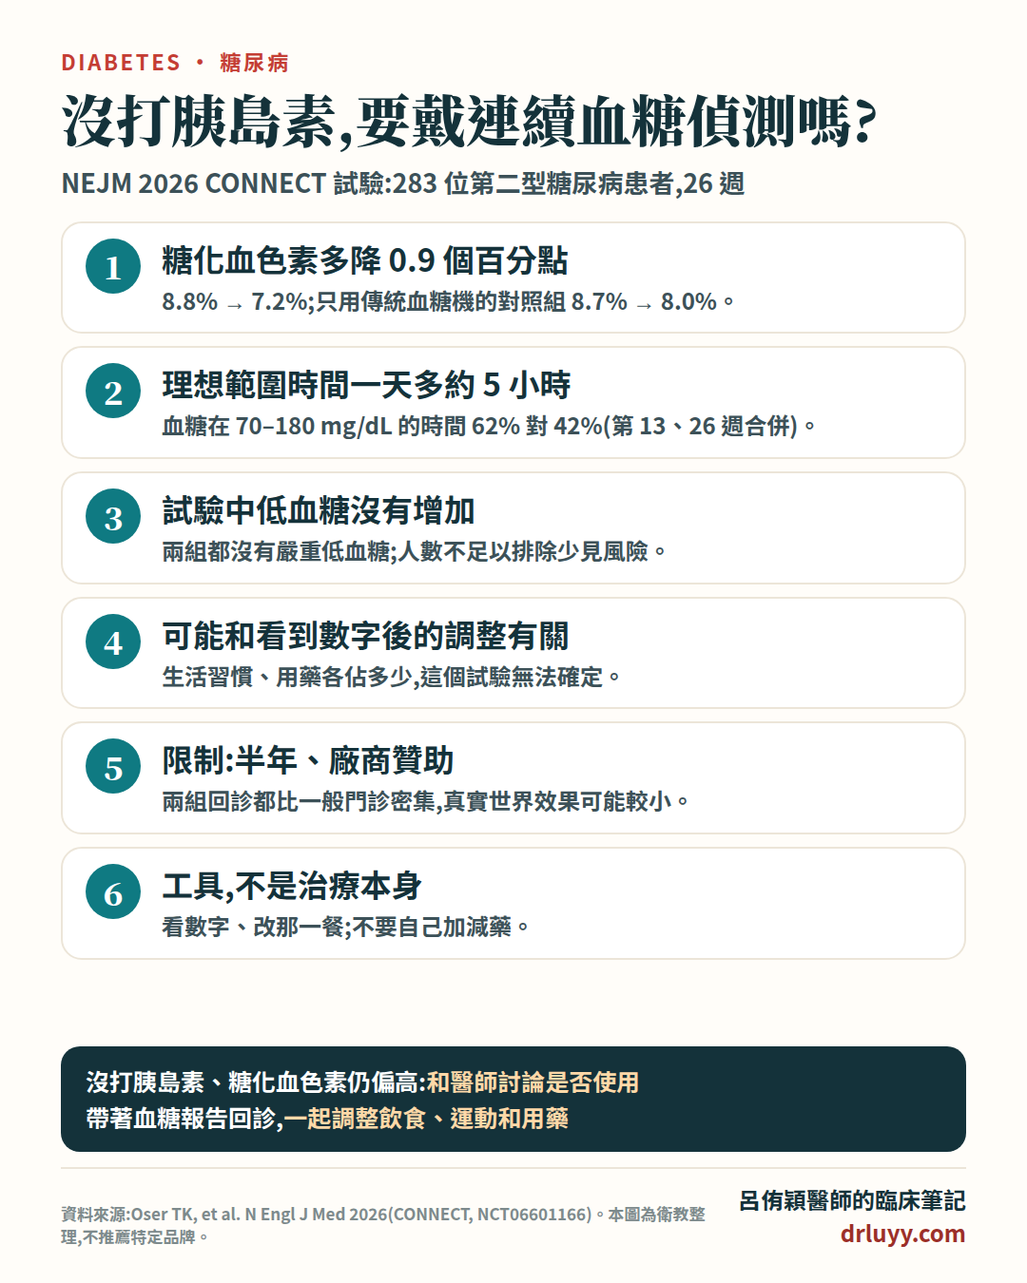
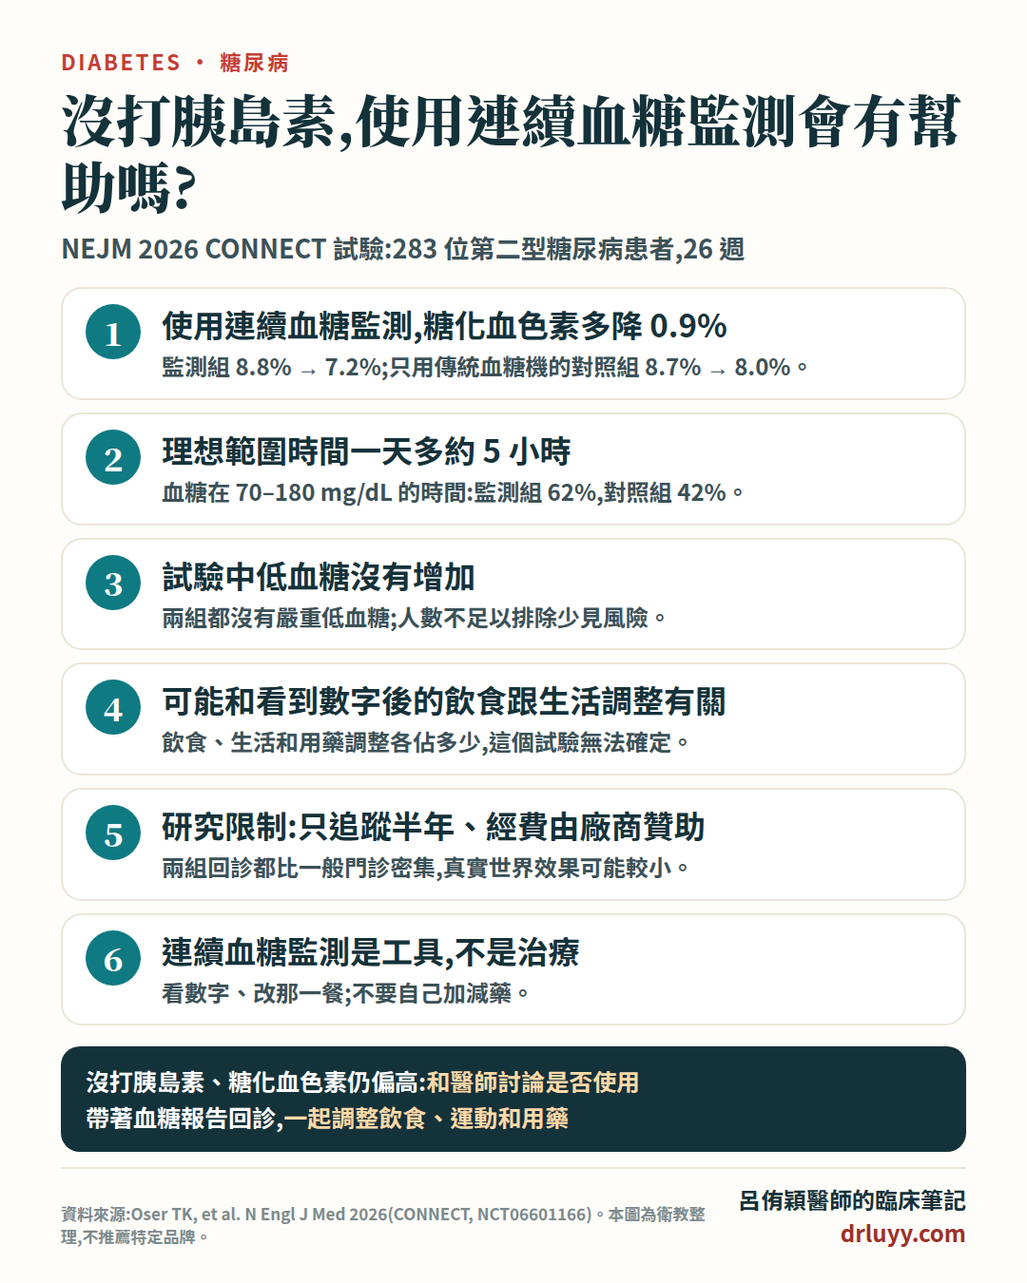
衛教卡依呂醫師修改;用語統一為連續血糖監測

diff --git a/posts/cgm-type2-no-insulin.html b/posts/cgm-type2-no-insulin.html
@@ -3,13 +3,13 @@
 <head>
 <meta charset="UTF-8">
 <meta name="viewport" content="width=device-width, initial-scale=1.0">
-<title>沒打胰島素,也需要戴連續血糖偵測嗎?NEJM 試驗:半年糖化血色素多降 0.9 — 呂侑穎醫師</title>
-<meta name="description" content="沒打胰島素的第二型糖尿病患者,需要戴連續血糖偵測嗎?2026 年 NEJM 的 CONNECT 隨機試驗,在美國 22 家基層診所收 283 人:戴連續血糖偵測半年,糖化血色素從 8.8% 降到 7.2%,比只用傳統血糖機多降約 0.9 個百分點;血糖在理想範圍的時間一天多約 5 小時,低血糖沒有增">
+<title>沒打胰島素,也需要戴連續血糖監測嗎?NEJM 試驗:半年糖化血色素多降 0.9 — 呂侑穎醫師</title>
+<meta name="description" content="沒打胰島素的第二型糖尿病患者,需要戴連續血糖監測嗎?2026 年 NEJM 的 CONNECT 隨機試驗,在美國 22 家基層診所收 283 人:戴連續血糖監測半年,糖化血色素從 8.8% 降到 7.2%,比只用傳統血糖機多降約 0.9 個百分點;血糖在理想範圍的時間一天多約 5 小時,低血糖沒有增">
 <meta name="author" content="呂侑穎醫師">
 <meta name="robots" content="index, follow">
 <link rel="canonical" href="https://drluyy.com/posts/cgm-type2-no-insulin.html">
-<meta property="og:title" content="沒打胰島素,也需要戴連續血糖偵測嗎?NEJM 試驗:半年糖化血色素多降 0.9">
-<meta property="og:description" content="沒打胰島素的第二型糖尿病患者,需要戴連續血糖偵測嗎?2026 年 NEJM 的 CONNECT 隨機試驗,在美國 22 家基層診所收 283 人:戴連續血糖偵測半年,糖化血色素從 8.8% 降到 7.2%,比只用傳統血糖機多降約 0.9 個百分點;血糖在理想範圍的時間一天多約 5 小時,低血糖沒有增">
+<meta property="og:title" content="沒打胰島素,也需要戴連續血糖監測嗎?NEJM 試驗:半年糖化血色素多降 0.9">
+<meta property="og:description" content="沒打胰島素的第二型糖尿病患者,需要戴連續血糖監測嗎?2026 年 NEJM 的 CONNECT 隨機試驗,在美國 22 家基層診所收 283 人:戴連續血糖監測半年,糖化血色素從 8.8% 降到 7.2%,比只用傳統血糖機多降約 0.9 個百分點;血糖在理想範圍的時間一天多約 5 小時,低血糖沒有增">
 <meta property="og:type" content="article">
 <meta property="og:url" content="https://drluyy.com/posts/cgm-type2-no-insulin.html">
 <meta property="og:locale" content="zh_TW">
@@ -21,7 +21,7 @@
 <meta name="twitter:image" content="https://drluyy.com/img/og/cgm-type2-no-insulin.png">
 <link rel="icon" href="../favicon.svg" type="image/svg+xml">
 <script type="application/ld+json">
-{"@context":"https://schema.org","@type":"MedicalWebPage","headline":"沒打胰島素,也需要戴連續血糖偵測嗎?NEJM 試驗:半年糖化血色素多降 0.9","name":"沒打胰島素,也需要戴連續血糖偵測嗎?NEJM 試驗:半年糖化血色素多降 0.9","description":"沒打胰島素的第二型糖尿病患者,需要戴連續血糖偵測嗎?2026 年 NEJM 的 CONNECT 隨機試驗,在美國 22 家基層診所收 283 人:戴連續血糖偵測半年,糖化血色素從 8.8% 降到 7.2%,比只用傳統血糖機多降約 0.9 個百分點;血糖在理想範圍的時間一天多約 5 小時,低血糖沒有增","url":"https://drluyy.com/posts/cgm-type2-no-insulin.html","inLanguage":"zh-TW","image":"https://drluyy.com/img/og/cgm-type2-no-insulin.png","author":{"@type":"Person","name":"呂侑穎","jobTitle":"心臟內科醫師","url":"https://drluyy.com/about.html","sameAs":["https://www.tahsda.org.tw/doctors/doctorcard.php?doctorid=058","https://www.threads.com/@aluminum001"]},"publisher":{"@type":"Organization","name":"台安醫院心臟內科。呂侑穎醫師。臨床筆記"},"dateModified":"2026-10-16","mainEntityOfPage":"https://drluyy.com/posts/cgm-type2-no-insulin.html","datePublished":"2026-10-16"}
+{"@context":"https://schema.org","@type":"MedicalWebPage","headline":"沒打胰島素,也需要戴連續血糖監測嗎?NEJM 試驗:半年糖化血色素多降 0.9","name":"沒打胰島素,也需要戴連續血糖監測嗎?NEJM 試驗:半年糖化血色素多降 0.9","description":"沒打胰島素的第二型糖尿病患者,需要戴連續血糖監測嗎?2026 年 NEJM 的 CONNECT 隨機試驗,在美國 22 家基層診所收 283 人:戴連續血糖監測半年,糖化血色素從 8.8% 降到 7.2%,比只用傳統血糖機多降約 0.9 個百分點;血糖在理想範圍的時間一天多約 5 小時,低血糖沒有增","url":"https://drluyy.com/posts/cgm-type2-no-insulin.html","inLanguage":"zh-TW","image":"https://drluyy.com/img/og/cgm-type2-no-insulin.png","author":{"@type":"Person","name":"呂侑穎","jobTitle":"心臟內科醫師","url":"https://drluyy.com/about.html","sameAs":["https://www.tahsda.org.tw/doctors/doctorcard.php?doctorid=058","https://www.threads.com/@aluminum001"]},"publisher":{"@type":"Organization","name":"台安醫院心臟內科。呂侑穎醫師。臨床筆記"},"dateModified":"2026-10-16","mainEntityOfPage":"https://drluyy.com/posts/cgm-type2-no-insulin.html","datePublished":"2026-10-16"}
 </script>
 <link rel="preconnect" href="https://fonts.googleapis.com">
 <link rel="preconnect" href="https://fonts.gstatic.com" crossorigin>
@@ -65,21 +65,21 @@ gtag('config', 'G-BC1Z8X6BQT');
 <a class="back-link" href="../index.html">&larr; 回到全部文章</a>
 <div class="article-head">
 <span class="card-tag news">醫療新知</span>
-<h1>沒打胰島素,也需要戴連續血糖偵測嗎?NEJM 試驗:半年糖化血色素多降 0.9</h1>
+<h1>沒打胰島素,也需要戴連續血糖監測嗎?NEJM 試驗:半年糖化血色素多降 0.9</h1>
 <div class="article-meta">
 <span>醫療新知</span>
 <span>NEJM 2026 CONNECT 隨機試驗</span>
 </div>
 </div>
 <div class="content-card">
-<figure class="article-figure"><a href="../img/fig/cgm-connect-6.png" target="_blank" rel="noopener"><img src="../img/fig/cgm-connect-6.png" alt="沒打胰島素也需要連續血糖偵測嗎" width="1080" height="1350" loading="lazy"></a><figcaption>一張圖看懂 CONNECT 試驗(點圖看大圖、可存圖分享)</figcaption></figure>
-<div class="article-body">【醫療新知】沒打胰島素,也需要戴連續血糖偵測嗎?NEJM 試驗:半年糖化血色素多降 0.9
+<figure class="article-figure"><a href="../img/fig/cgm-connect-6.png" target="_blank" rel="noopener"><img src="../img/fig/cgm-connect-6.png" alt="沒打胰島素,使用連續血糖監測會有幫助嗎" width="1080" height="1350" loading="lazy"></a><figcaption>一張圖看懂 CONNECT 試驗(點圖看大圖、可存圖分享)</figcaption></figure>
+<div class="article-body">【醫療新知】沒打胰島素,也需要戴連續血糖監測嗎?NEJM 試驗:半年糖化血色素多降 0.9
 
 ━━━━━━━━━━━━━━━━━━━━━━━
 
 「醫師,我只有吃藥、沒打胰島素,也要戴那個貼在手臂上的血糖機嗎?」
 
-連續血糖偵測(英文 CGM)是貼在手臂上的小感測器,每幾分鐘自動量一次血糖,手機上就能看到一整天的血糖曲線,不用一直扎手指。對打胰島素的人,它的好處已經有很多隨機試驗證實;但大多數第二型糖尿病患者沒打胰島素,這群人戴了有沒有用,過去的隨機試驗不多——論文作者指出,美國糖尿病學會 2026 年的照護標準中,支持打胰島素者使用的是最高的 A 級證據,用在沒打胰島素的人身上,證據等級則較低。
+連續血糖監測(英文 CGM)是貼在手臂上的小感測器,每幾分鐘自動量一次血糖,手機上就能看到一整天的血糖曲線,不用一直扎手指。對打胰島素的人,它的好處已經有很多隨機試驗證實;但大多數第二型糖尿病患者沒打胰島素,這群人戴了有沒有用,過去的隨機試驗不多——論文作者指出,美國糖尿病學會 2026 年的照護標準中,支持打胰島素者使用的是最高的 A 級證據,用在沒打胰島素的人身上,證據等級則較低。
 
 2026 年 10 月,《新英格蘭醫學期刊》(NEJM)刊出 CONNECT 隨機試驗,在美國 22 家基層診所測試這個問題。
 
@@ -87,11 +87,11 @@ gtag('config', 'G-BC1Z8X6BQT');
 
 ▎先講結論
 
-① 沒打胰島素、糖化血色素偏高(平均 8.8%)的第二型糖尿病患者,戴連續血糖偵測半年,糖化血色素從 8.8% 降到 7.2%;只用傳統血糖機的對照組從 8.7% 降到 8.0%。兩組相差約 0.9 個百分點。
+① 沒打胰島素、糖化血色素偏高(平均 8.8%)的第二型糖尿病患者,戴連續血糖監測半年,糖化血色素從 8.8% 降到 7.2%;只用傳統血糖機的對照組從 8.7% 降到 8.0%。兩組相差約 0.9 個百分點。
 ② 血糖在 70–180 mg/dL 理想範圍內的時間,多了 21 個百分點,大約等於一天多 5 小時。
 ③ 試驗中低血糖沒有變多,兩組都沒有發生嚴重低血糖(但人數不足以排除少見的風險)。
 ④ 不過試驗只有半年、經費和感測器由廠商提供,而且兩組回診和衛教的頻率都比一般門診密集得多;真實世界的效果可能比較小。
-⑤ 連續血糖偵測是「工具」;效果可能部分來自看到數字後在生活習慣或用藥上的調整,但這個試驗無法確定各因素各佔多少。
+⑤ 連續血糖監測是「工具」;效果可能部分來自看到數字後在生活習慣或用藥上的調整,但這個試驗無法確定各因素各佔多少。
 
 ━━━━━━━━━━━━━━━━━━━━━━━
 
@@ -99,7 +99,7 @@ gtag('config', 'G-BC1Z8X6BQT');
 
 ・對象:283 位沒打胰島素的成人第二型糖尿病患者,年齡 21 到 84 歲(平均約 60 歲),在基層診所看診;至少一年沒打胰島素,篩檢時糖化血色素 7.5% 以上。約 4 成在用腸泌素類藥物(GLP-1 受體促效劑,也就是瘦瘦針那一類),約 4 成在用排糖藥(SGLT2 抑制劑)。
 ・分組:隨機分成兩組。
- - 連續血糖偵測組(145 人):戴即時連續血糖偵測(Dexcom G7)半年,要求每天戴。
+ - 連續血糖監測組(145 人):戴即時連續血糖監測(Dexcom G7)半年,要求每天戴。
  - 常規照護組(138 人):照醫師建議用傳統血糖機扎手指。
 ・兩組都:繼續原本的藥、接受研究人員的飲食和運動衛教,並在第 1、4、8、19 週視訊回診,第 13、26 週到診所回診;醫師看血糖資料後,視情況建議生活調整或調藥。
 ・主要看:26 週時的糖化血色素(由中央實驗室統一檢驗)。
@@ -107,7 +107,7 @@ gtag('config', 'G-BC1Z8X6BQT');
 ▎研究發現
 
 【糖化血色素】
-・連續血糖偵測組:8.8% → 7.2%(平均降 1.6 個百分點)。
+・連續血糖監測組:8.8% → 7.2%(平均降 1.6 個百分點)。
 ・常規照護組:8.7% → 8.0%(平均降 0.7 個百分點)。
 ・校正後兩組相差 0.9 個百分點(95% 信賴區間 0.6 到 1.1),有統計意義。
 ・糖化血色素降到 7% 以下的比例:46% 對 24%。
@@ -118,17 +118,17 @@ gtag('config', 'G-BC1Z8X6BQT');
 ・血糖超過 250 mg/dL 的時間:7% 對 22%。
 
 【安全性】
-・兩組都沒有嚴重低血糖;低於 70 mg/dL 的時間本來就很少(不到 1%),連續血糖偵測組也沒有變多。
+・兩組都沒有嚴重低血糖;低於 70 mg/dL 的時間本來就很少(不到 1%),連續血糖監測組也沒有變多。
 ・和感測器有關的不良事件只有 3 件,都是貼片處出血。
 ・兩組的嚴重不良事件都是 6 人,經判定都和試驗無關。
 ・不過試驗人數不多,不足以看出少見安全問題的差別。
 
 【戴得住嗎?】
-・連續血糖偵測組幾乎沒有人中途不戴;完成試驗的人,中位數有 97% 的時間都有資料。
-・扎手指的次數:連續血糖偵測組從每週約 3 次降到幾乎 0 次。
+・連續血糖監測組幾乎沒有人中途不戴;完成試驗的人,中位數有 97% 的時間都有資料。
+・扎手指的次數:連續血糖監測組從每週約 3 次降到幾乎 0 次。
 
 【是不是只是多開了藥?】
-・試驗期間,連續血糖偵測組有 31% 被加了藥(包括 4% 開始打胰島素),常規組是 17%。
+・試驗期間,連續血糖監測組有 31% 被加了藥(包括 4% 開始打胰島素),常規組是 17%。
 ・作者指出,被加藥的只是少數,所以效果可能不只來自加藥,也可能包括看到血糖後的生活習慣改變。不過試驗沒有客觀記錄飲食、運動和吃藥的情況,也不是設計來比較這些因素,確切原因還不清楚。
 
 【體重】
@@ -148,7 +148,7 @@ gtag('config', 'G-BC1Z8X6BQT');
 
 ▎那我該怎麼做?
 
-・沒打胰島素、糖化血色素還是偏高的人,可以和醫師討論是否使用連續血糖偵測,看看自己吃了什麼、什麼時候血糖會飆高,作為調整飲食、運動和用藥的參考。要注意,這個試驗是每天連續戴 26 週;只短期戴一段時間,能不能有一樣的效果還不確定。
+・沒打胰島素、糖化血色素還是偏高的人,可以和醫師討論是否使用連續血糖監測,看看自己吃了什麼、什麼時候血糖會飆高,作為調整飲食、運動和用藥的參考。要注意,這個試驗是每天連續戴 26 週;只短期戴一段時間,能不能有一樣的效果還不確定。
 ・重點不是戴著,而是「看數字、做調整」:飯後血糖衝很高的那一餐,就是最值得改的那一餐;回診時把血糖報告帶給醫師看。
 ・感測器偶爾會和實際血糖有落差;覺得不舒服、但數字對不上時,依說明書用血糖機扎手指確認。
 ・不要因為看到數字高高低低,就自己加減藥,尤其是有低血糖風險的藥;調藥請和醫師討論。
@@ -164,7 +164,7 @@ gtag('config', 'G-BC1Z8X6BQT');
 
 ━━━━━━━━━━━━━━━━━━━━━━━
 
-⚠ 本文依 Oser TK, et al. Continuous Glucose Monitoring in Non–Insulin-Treated Type 2 Diabetes(CONNECT 試驗).《新英格蘭醫學期刊》2026 年 10 月 14 日線上發表,全文整理。本文為衛教說明,不構成個別診療建議,也不推薦特定品牌;是否需要連續血糖偵測或調整用藥,請和醫師討論。
+⚠ 本文依 Oser TK, et al. Continuous Glucose Monitoring in Non–Insulin-Treated Type 2 Diabetes(CONNECT 試驗).《新英格蘭醫學期刊》2026 年 10 月 14 日線上發表,全文整理。本文為衛教說明,不構成個別診療建議,也不推薦特定品牌;是否需要連續血糖監測或調整用藥,請和醫師討論。
 
 參考文獻:
 CONNECT 試驗:<a href="https://doi.org/10.1056/NEJMoa2608571" target="_blank" rel="noopener">https://doi.org/10.1056/NEJMoa2608571</a>
@@ -189,7 +189,7 @@ CONNECT 試驗:<a href="https://doi.org/10.1056/NEJMoa2608571" target="_blank" r
 <section class="comments-wrap">
 <h2 class="comments-title">留言與回饋</h2>
 <p class="comments-note">歡迎在下方留下你的想法或問題，留言經審核後才會公開顯示。<strong>提醒：本區不提供個別診療，個人病情請就醫或掛號諮詢。</strong></p>
-<div id="cusdis_thread" data-host="https://cusdis.com" data-app-id="0587d292-27ab-4082-bc76-15c0cd50293d" data-page-id="https://drluyy.com/posts/cgm-type2-no-insulin.html" data-page-url="https://drluyy.com/posts/cgm-type2-no-insulin.html" data-page-title="沒打胰島素,也需要戴連續血糖偵測嗎?NEJM 試驗:半年糖化血色素多降 0.9"></div>
+<div id="cusdis_thread" data-host="https://cusdis.com" data-app-id="0587d292-27ab-4082-bc76-15c0cd50293d" data-page-id="https://drluyy.com/posts/cgm-type2-no-insulin.html" data-page-url="https://drluyy.com/posts/cgm-type2-no-insulin.html" data-page-title="沒打胰島素,也需要戴連續血糖監測嗎?NEJM 試驗:半年糖化血色素多降 0.9"></div>
 <script async defer src="https://cusdis.com/js/cusdis.es.js"></script>
 </section>
 

diff --git a/index.html b/index.html
@@ -199,8 +199,8 @@ gtag('config', 'G-BC1Z8X6BQT');
 <a class="card" href="posts/cgm-type2-no-insulin.html">
 <div class="card-header">
 <span class="card-tag news">醫療新知</span>
-<div class="card-title">沒打胰島素,也需要戴連續血糖偵測嗎?NEJM 試驗:半年糖化血色素多降 0.9</div>
-<div class="card-subtitle">沒打胰島素的第二型糖尿病患者,需要戴連續血糖偵測嗎?2026 年 NEJM 的 CONNECT 隨機試驗,在美國 22 家基層診所收 283 人:戴連續血糖偵測半年,糖化血色素從 8.8% 降到 7.2%,比只用傳統血糖機多降約 0.9 個百分點;血糖在理想範圍的時間一天多約 5 小時,低血糖沒有增加。這篇整理研究怎麼做、結果、限制(廠商贊助、只有半年、回診比一般門診密集),以及實際上怎麼用。</div>
+<div class="card-title">沒打胰島素,也需要戴連續血糖監測嗎?NEJM 試驗:半年糖化血色素多降 0.9</div>
+<div class="card-subtitle">沒打胰島素的第二型糖尿病患者,需要戴連續血糖監測嗎?2026 年 NEJM 的 CONNECT 隨機試驗,在美國 22 家基層診所收 283 人:戴連續血糖監測半年,糖化血色素從 8.8% 降到 7.2%,比只用傳統血糖機多降約 0.9 個百分點;血糖在理想範圍的時間一天多約 5 小時,低血糖沒有增加。這篇整理研究怎麼做、結果、限制(廠商贊助、只有半年、回診比一般門診密集),以及實際上怎麼用。</div>
 <div class="card-meta"><span>醫療新知</span><span>NEJM 2026 CONNECT 隨機試驗</span></div>
 </div>
 <div class="card-footer"><span class="read-btn">閱讀全文 →</span></div>

diff --git a/posts.html b/posts.html
@@ -72,8 +72,8 @@ gtag('config', 'G-BC1Z8X6BQT');
 <a class="card" href="posts/cgm-type2-no-insulin.html">
 <div class="card-header">
 <span class="card-tag news">醫療新知</span>
-<div class="card-title">沒打胰島素,也需要戴連續血糖偵測嗎?NEJM 試驗:半年糖化血色素多降 0.9</div>
-<div class="card-subtitle">沒打胰島素的第二型糖尿病患者,需要戴連續血糖偵測嗎?2026 年 NEJM 的 CONNECT 隨機試驗,在美國 22 家基層診所收 283 人:戴連續血糖偵測半年,糖化血色素從 8.8% 降到 7.2%,比只用傳統血糖機多降約 0.9 個百分點;血糖在理想範圍的時間一天多約 5 小時,低血糖沒有增加。這篇整理研究怎麼做、結果、限制(廠商贊助、只有半年、回診比一般門診密集),以及實際上怎麼用。</div>
+<div class="card-title">沒打胰島素,也需要戴連續血糖監測嗎?NEJM 試驗:半年糖化血色素多降 0.9</div>
+<div class="card-subtitle">沒打胰島素的第二型糖尿病患者,需要戴連續血糖監測嗎?2026 年 NEJM 的 CONNECT 隨機試驗,在美國 22 家基層診所收 283 人:戴連續血糖監測半年,糖化血色素從 8.8% 降到 7.2%,比只用傳統血糖機多降約 0.9 個百分點;血糖在理想範圍的時間一天多約 5 小時,低血糖沒有增加。這篇整理研究怎麼做、結果、限制(廠商贊助、只有半年、回診比一般門診密集),以及實際上怎麼用。</div>
 <div class="card-meta"><span>醫療新知</span><span>NEJM 2026 CONNECT 隨機試驗</span></div>
 </div>
 <div class="card-footer"><span class="read-btn">閱讀全文 →</span></div>

diff --git a/news.html b/news.html
@@ -74,8 +74,8 @@ gtag('config', 'G-BC1Z8X6BQT');
 <a class="card" href="posts/cgm-type2-no-insulin.html">
 <div class="card-header">
 <span class="card-tag news">醫療新知</span>
-<div class="card-title">沒打胰島素,也需要戴連續血糖偵測嗎?NEJM 試驗:半年糖化血色素多降 0.9</div>
-<div class="card-subtitle">沒打胰島素的第二型糖尿病患者,需要戴連續血糖偵測嗎?2026 年 NEJM 的 CONNECT 隨機試驗,在美國 22 家基層診所收 283 人:戴連續血糖偵測半年,糖化血色素從 8.8% 降到 7.2%,比只用傳統血糖機多降約 0.9 個百分點;血糖在理想範圍的時間一天多約 5 小時,低血糖沒有增加。這篇整理研究怎麼做、結果、限制(廠商贊助、只有半年、回診比一般門診密集),以及實際上怎麼用。</div>
+<div class="card-title">沒打胰島素,也需要戴連續血糖監測嗎?NEJM 試驗:半年糖化血色素多降 0.9</div>
+<div class="card-subtitle">沒打胰島素的第二型糖尿病患者,需要戴連續血糖監測嗎?2026 年 NEJM 的 CONNECT 隨機試驗,在美國 22 家基層診所收 283 人:戴連續血糖監測半年,糖化血色素從 8.8% 降到 7.2%,比只用傳統血糖機多降約 0.9 個百分點;血糖在理想範圍的時間一天多約 5 小時,低血糖沒有增加。這篇整理研究怎麼做、結果、限制(廠商贊助、只有半年、回診比一般門診密集),以及實際上怎麼用。</div>
 <div class="card-meta">
 <span>醫療新知</span>
 <span>NEJM 2026 CONNECT 隨機試驗</span>

diff --git a/trials.html b/trials.html
@@ -74,8 +74,8 @@ gtag('config', 'G-BC1Z8X6BQT');
 <a class="card" href="posts/cgm-type2-no-insulin.html">
 <div class="card-header">
 <span class="card-tag news">醫療新知</span>
-<div class="card-title">沒打胰島素,也需要戴連續血糖偵測嗎?NEJM 試驗:半年糖化血色素多降 0.9</div>
-<div class="card-subtitle">沒打胰島素的第二型糖尿病患者,需要戴連續血糖偵測嗎?2026 年 NEJM 的 CONNECT 隨機試驗,在美國 22 家基層診所收 283 人:戴連續血糖偵測半年,糖化血色素從 8.8% 降到 7.2%,比只用傳統血糖機多降約 0.9 個百分點;血糖在理想範圍的時間一天多約 5 小時,低血糖沒有增加。這篇整理研究怎麼做、結果、限制(廠商贊助、只有半年、回診比一般門診密集),以及實際上怎麼用。</div>
+<div class="card-title">沒打胰島素,也需要戴連續血糖監測嗎?NEJM 試驗:半年糖化血色素多降 0.9</div>
+<div class="card-subtitle">沒打胰島素的第二型糖尿病患者,需要戴連續血糖監測嗎?2026 年 NEJM 的 CONNECT 隨機試驗,在美國 22 家基層診所收 283 人:戴連續血糖監測半年,糖化血色素從 8.8% 降到 7.2%,比只用傳統血糖機多降約 0.9 個百分點;血糖在理想範圍的時間一天多約 5 小時,低血糖沒有增加。這篇整理研究怎麼做、結果、限制(廠商贊助、只有半年、回診比一般門診密集),以及實際上怎麼用。</div>
 <div class="card-meta">
 <span>醫療新知</span>
 <span>NEJM 2026 CONNECT 隨機試驗</span>

diff --git a/posts/early-onset-diabetes-remission.html b/posts/early-onset-diabetes-remission.html
@@ -194,7 +194,7 @@ if(!window.__ytl){window.__ytl=1;document.addEventListener('click',e=>{const b=e
 </div>
 
 <nav class="related-posts" aria-label="相關文章"><h2>相關文章</h2><ul>
-<li><a href="cgm-type2-no-insulin.html">沒打胰島素,也需要戴連續血糖偵測嗎?NEJM 試驗:半年糖化血色素多降 0.9</a></li>
+<li><a href="cgm-type2-no-insulin.html">沒打胰島素,也需要戴連續血糖監測嗎?NEJM 試驗:半年糖化血色素多降 0.9</a></li>
 <li><a href="iron-deficiency-hba1c.html">缺鐵會讓糖化血色素「假性偏高」?糖化血色素和血糖對不上時,留意缺鐵與貧血</a></li>
 <li><a href="dha-brain-dementia-trial.html">每天吃高劑量魚油 DHA 能顧大腦嗎?</a></li>
 <li><a href="statin-side-effects.html">吃降膽固醇藥(史他汀)副作用很多?大型雙盲試驗告訴你:哪些是真的、哪些是誤會</a></li>

diff --git a/posts/iron-deficiency-hba1c.html b/posts/iron-deficiency-hba1c.html
@@ -177,7 +177,7 @@ if(!window.__ytl){window.__ytl=1;document.addEventListener('click',e=>{const b=e
 </div>
 
 <nav class="related-posts" aria-label="相關文章"><h2>相關文章</h2><ul>
-<li><a href="cgm-type2-no-insulin.html">沒打胰島素,也需要戴連續血糖偵測嗎?NEJM 試驗:半年糖化血色素多降 0.9</a></li>
+<li><a href="cgm-type2-no-insulin.html">沒打胰島素,也需要戴連續血糖監測嗎?NEJM 試驗:半年糖化血色素多降 0.9</a></li>
 <li><a href="flavonoid-vascular.html">多吃類黃酮食物,對血管有幫助嗎?茶、莓果、可可的研究怎麼說</a></li>
 <li><a href="statin-side-effects.html">吃降膽固醇藥(史他汀)副作用很多?大型雙盲試驗告訴你:哪些是真的、哪些是誤會</a></li>
 <li><a href="keto-ldl-lmhr.html">生酮後膽固醇飆高,真的沒關係嗎?</a></li>
